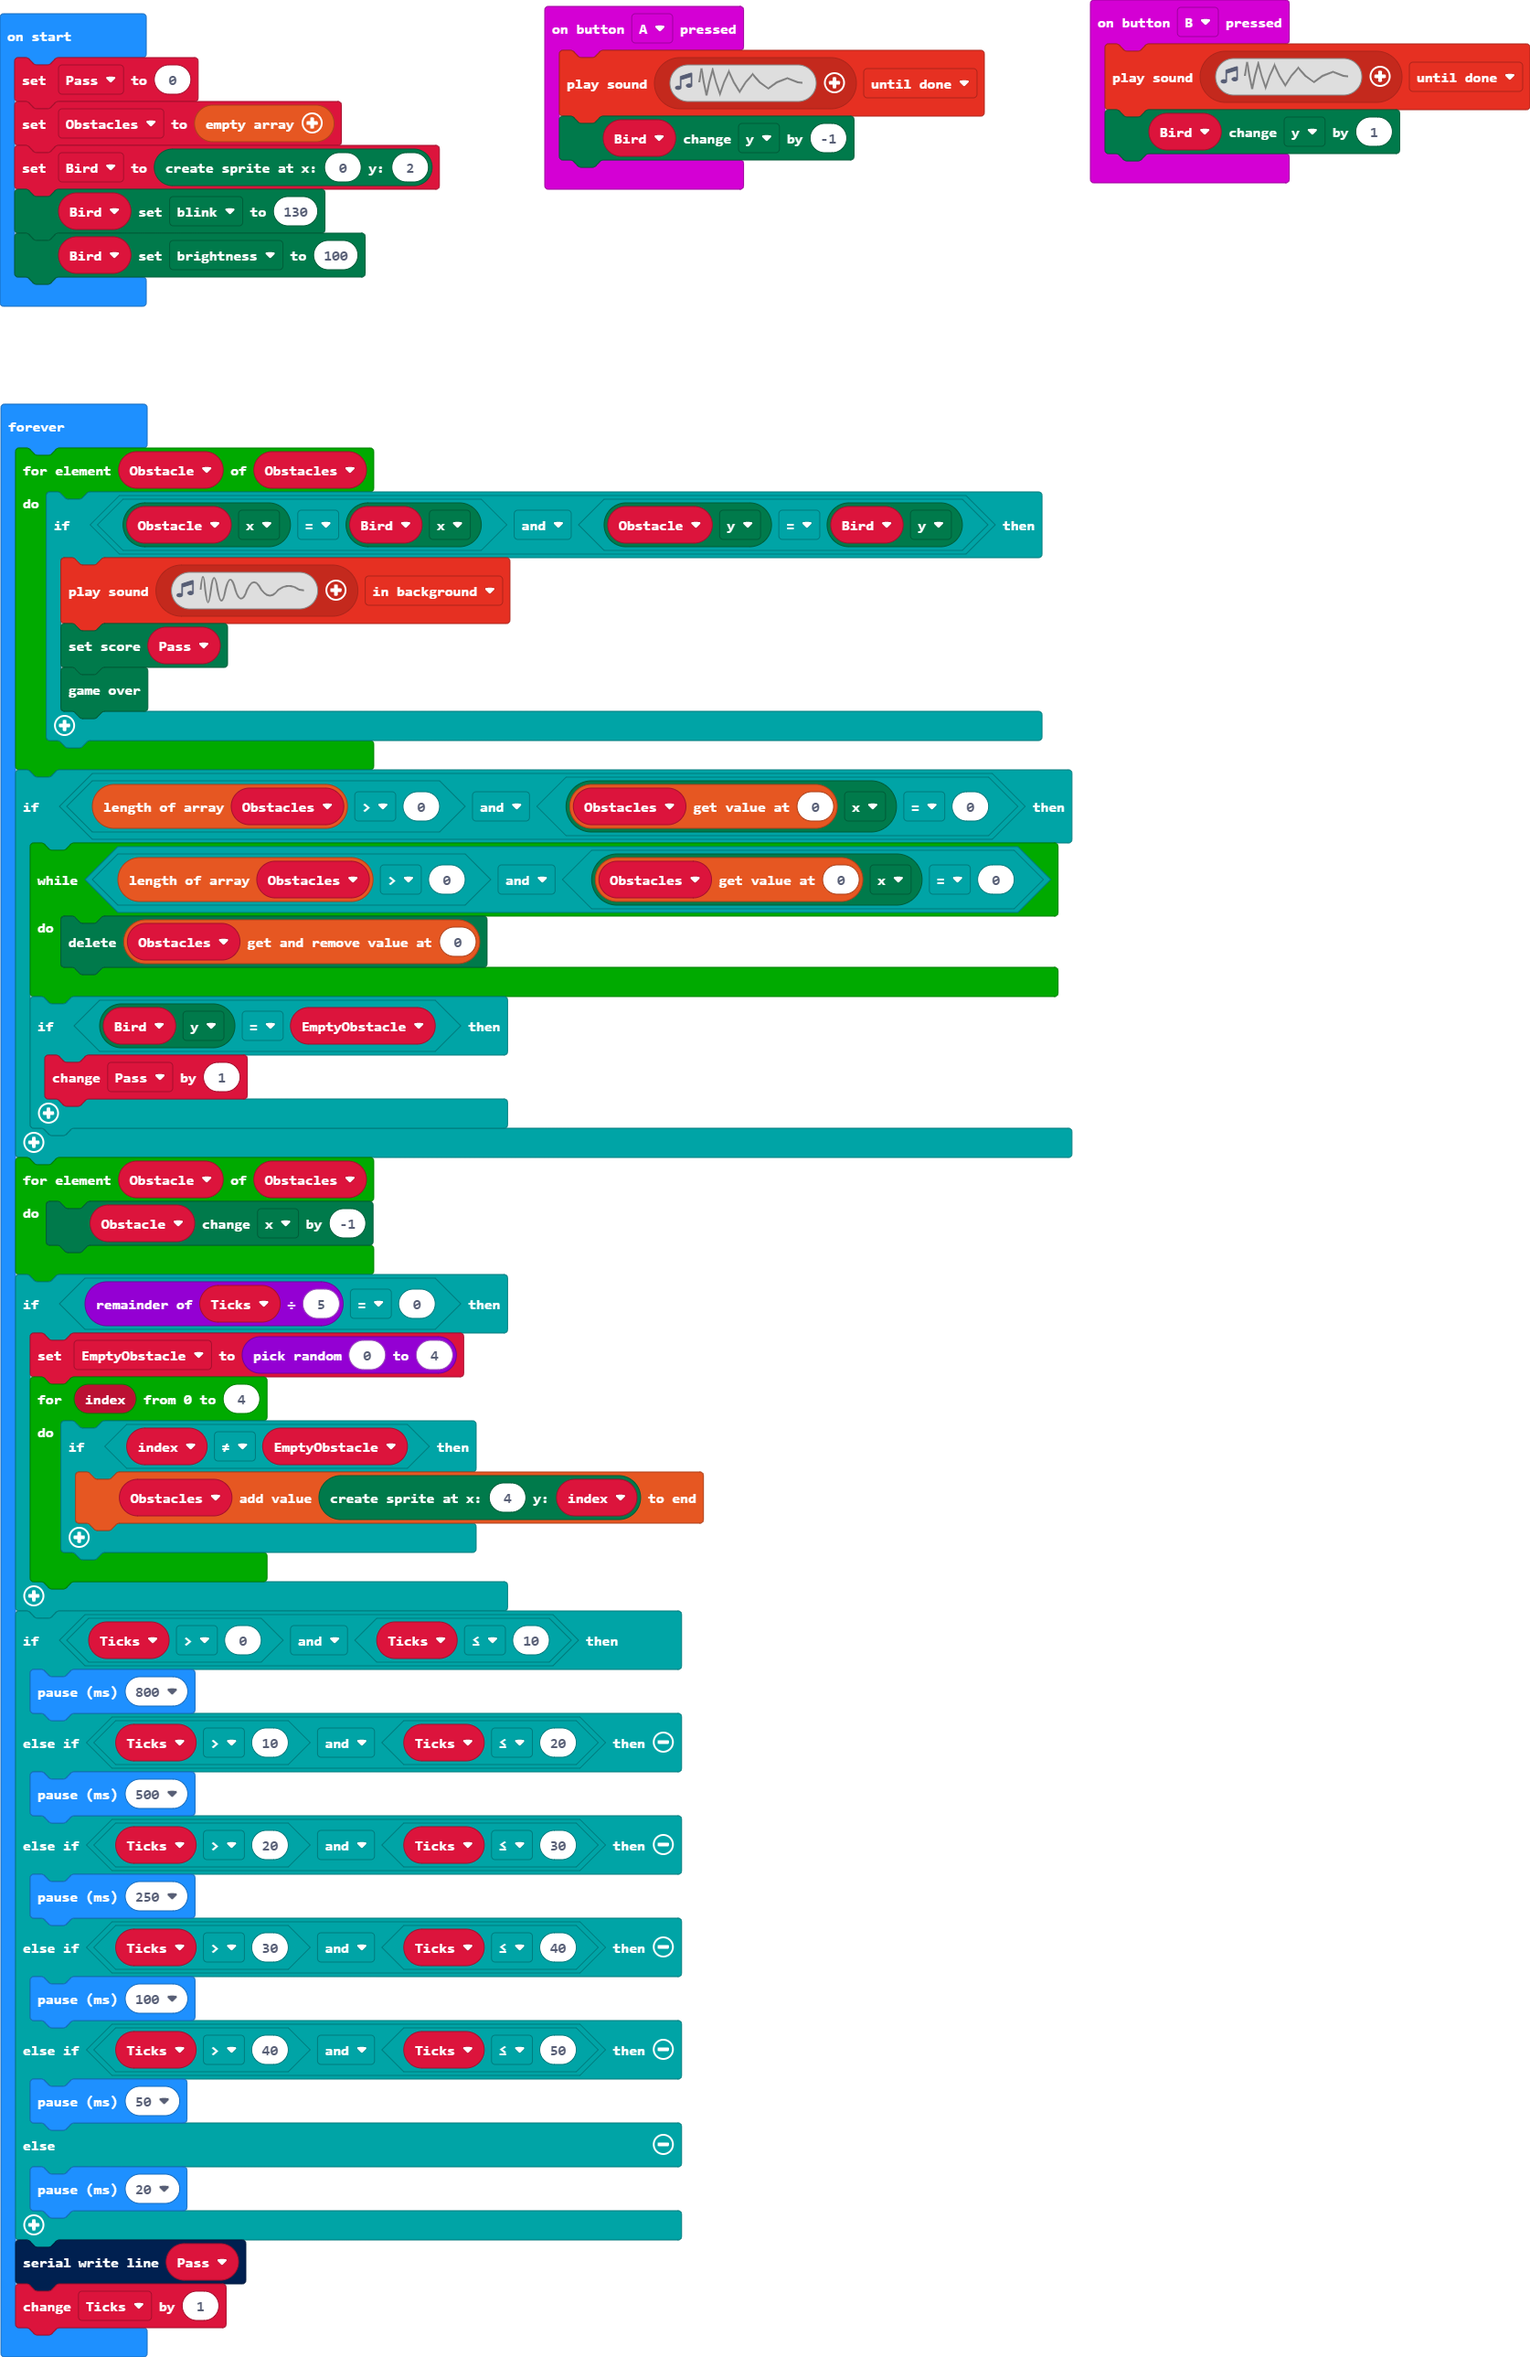
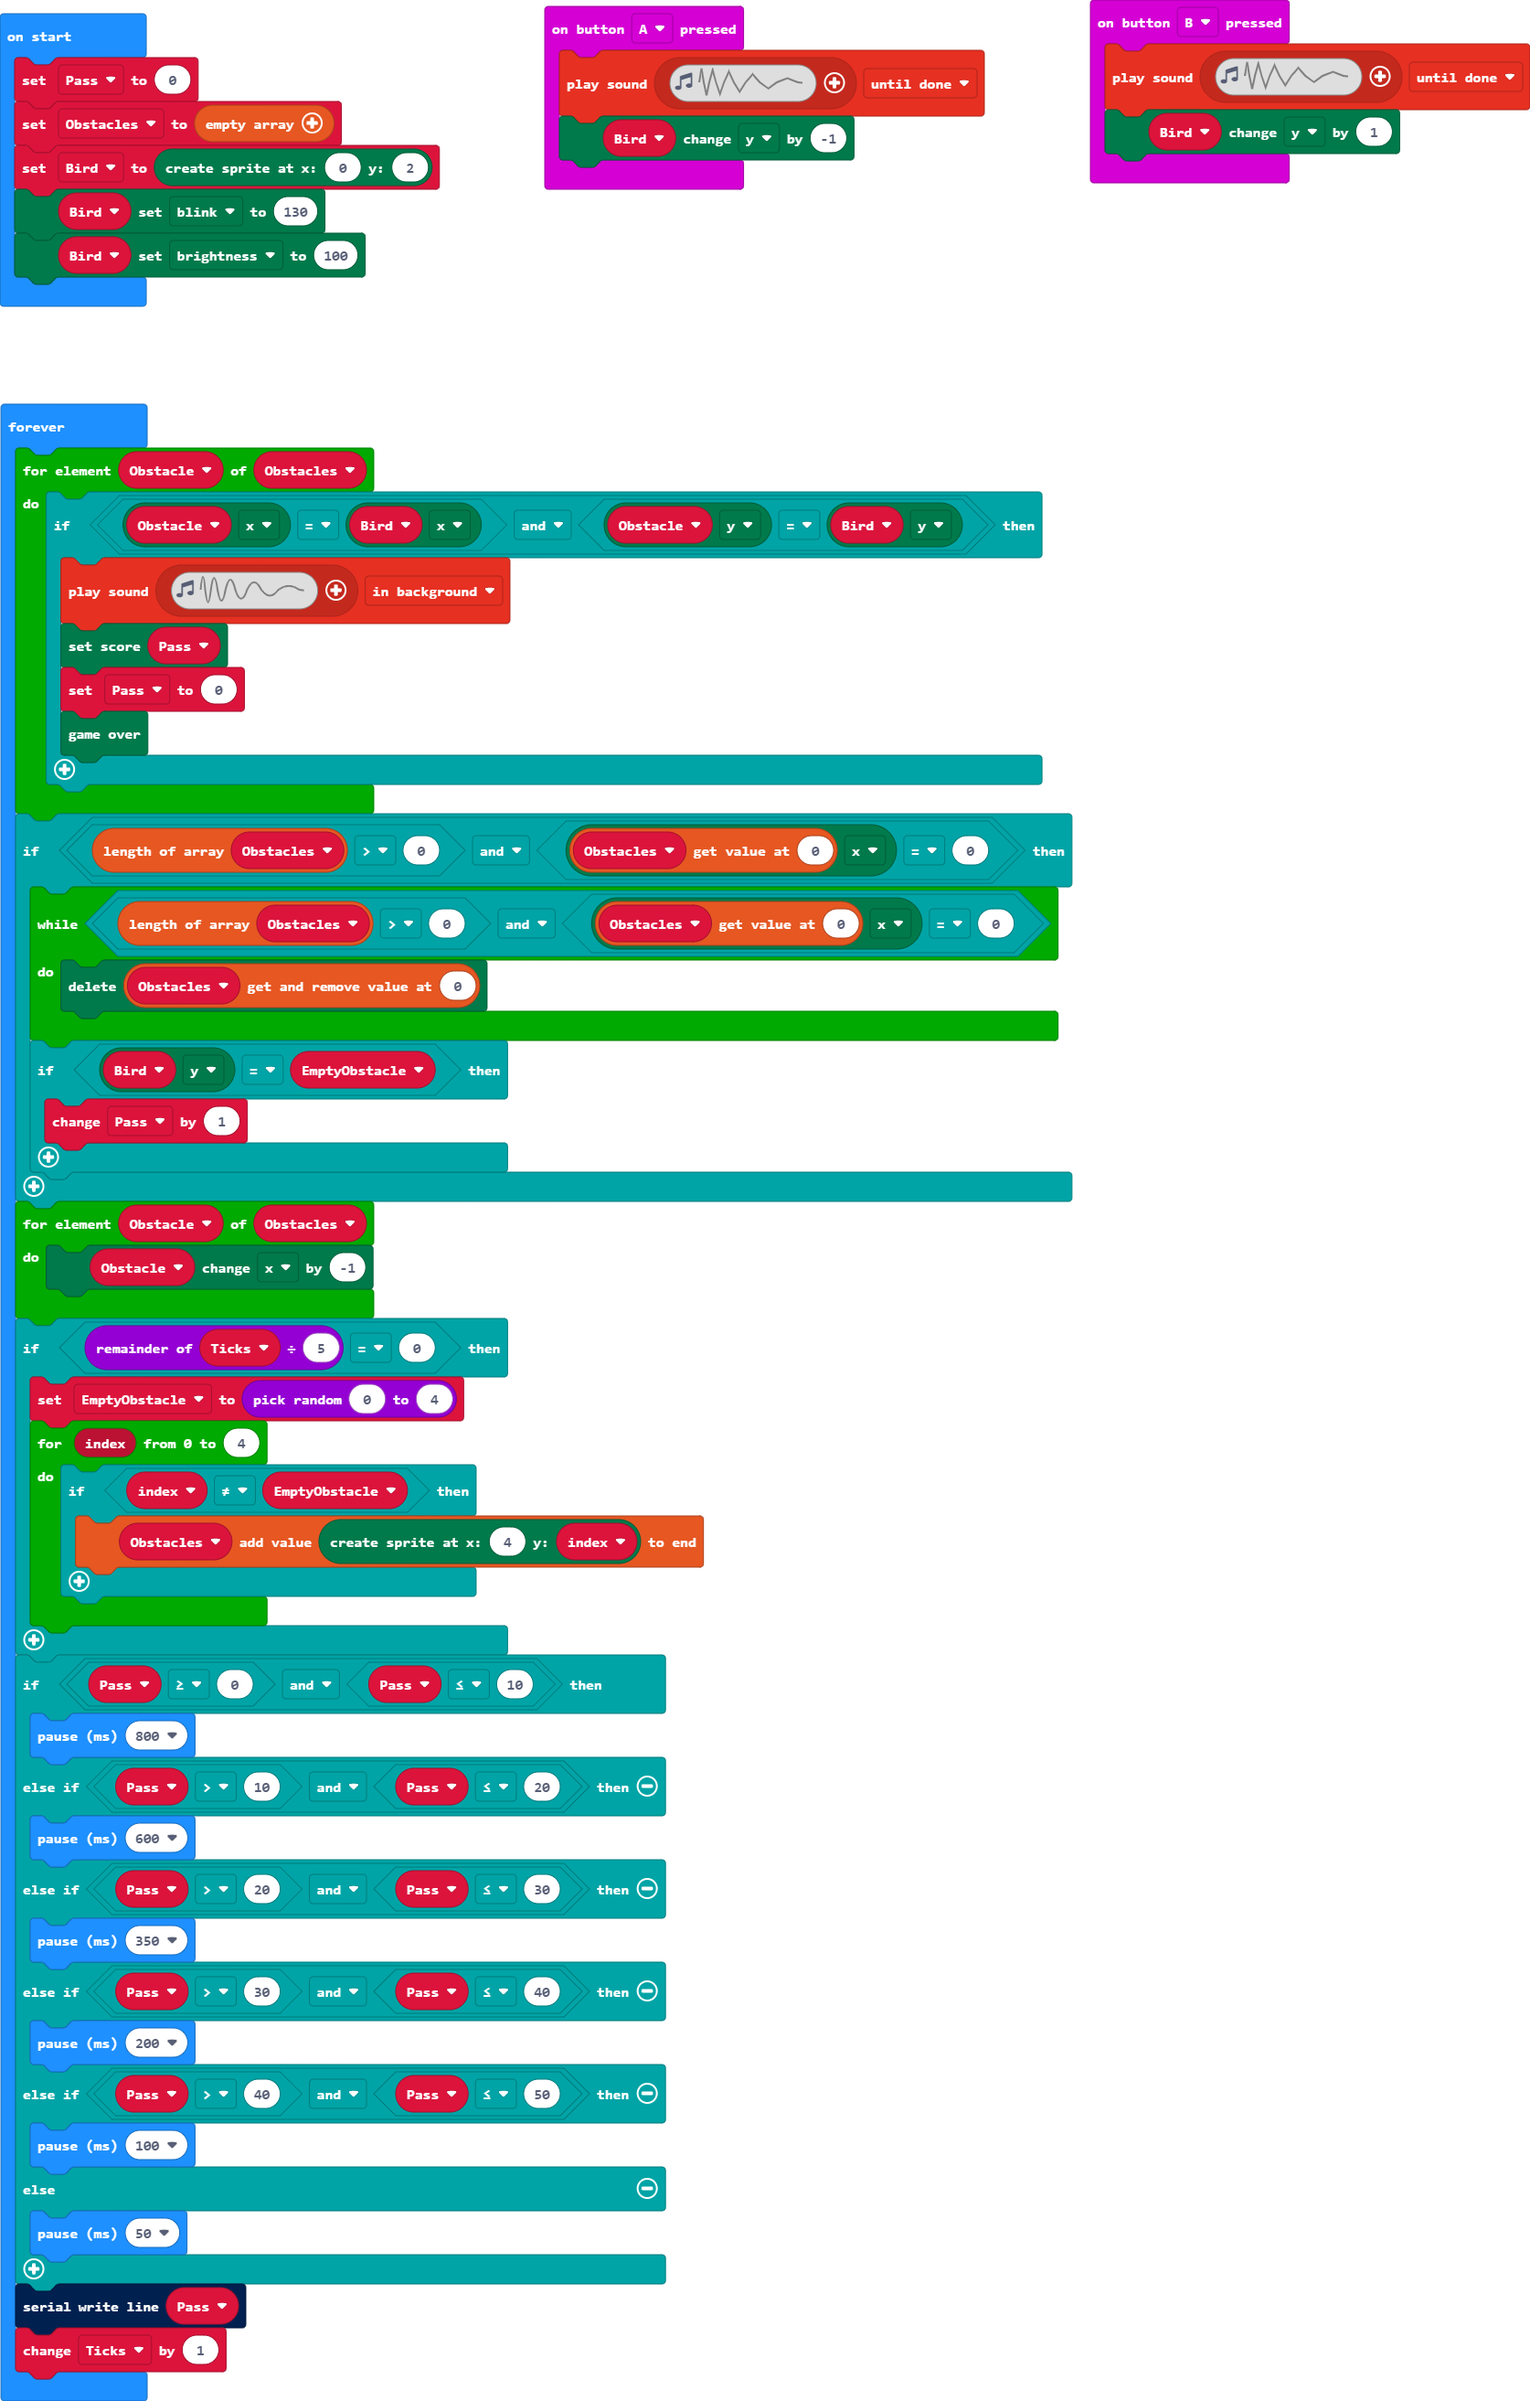
times

diff --git a/main.ts b/main.ts
@@ -19,6 +19,7 @@ basic.forever(function () {
         if (Obstacle.get(LedSpriteProperty.X) == Bird.get(LedSpriteProperty.X) && Obstacle.get(LedSpriteProperty.Y) == Bird.get(LedSpriteProperty.Y)) {
             music.playSoundEffect(music.createSoundEffect(WaveShape.Sine, 5000, 0, 255, 0, 2000, SoundExpressionEffect.None, InterpolationCurve.Linear), SoundExpressionPlayMode.InBackground)
             game.setScore(Pass)
+            Pass = 0
             game.gameOver()
         }
     }
@@ -41,18 +42,18 @@ basic.forever(function () {
             }
         }
     }
-    if (Ticks > 0 && Ticks <= 10) {
+    if (Pass >= 0 && Pass <= 10) {
         basic.pause(800)
-    } else if (Ticks > 10 && Ticks <= 20) {
-        basic.pause(500)
-    } else if (Ticks > 20 && Ticks <= 30) {
-        basic.pause(250)
-    } else if (Ticks > 30 && Ticks <= 40) {
+    } else if (Pass > 10 && Pass <= 20) {
+        basic.pause(600)
+    } else if (Pass > 20 && Pass <= 30) {
+        basic.pause(350)
+    } else if (Pass > 30 && Pass <= 40) {
+        basic.pause(200)
+    } else if (Pass > 40 && Pass <= 50) {
         basic.pause(100)
-    } else if (Ticks > 40 && Ticks <= 50) {
-        basic.pause(50)
     } else {
-        basic.pause(20)
+        basic.pause(50)
     }
     serial.writeLine("" + (Pass))
     Ticks += 1
